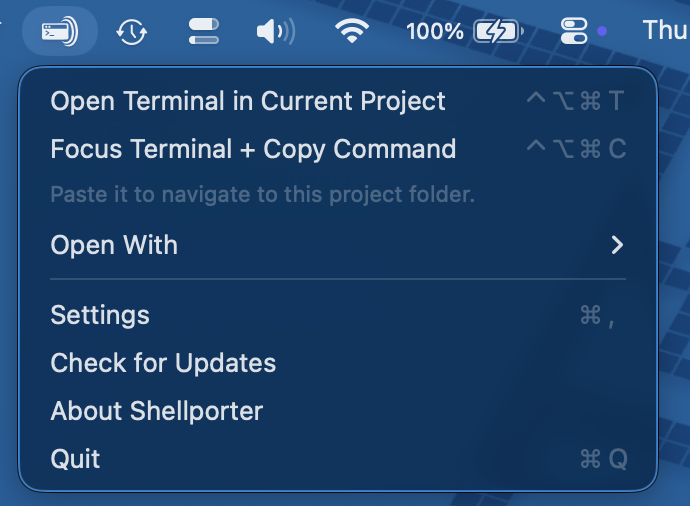
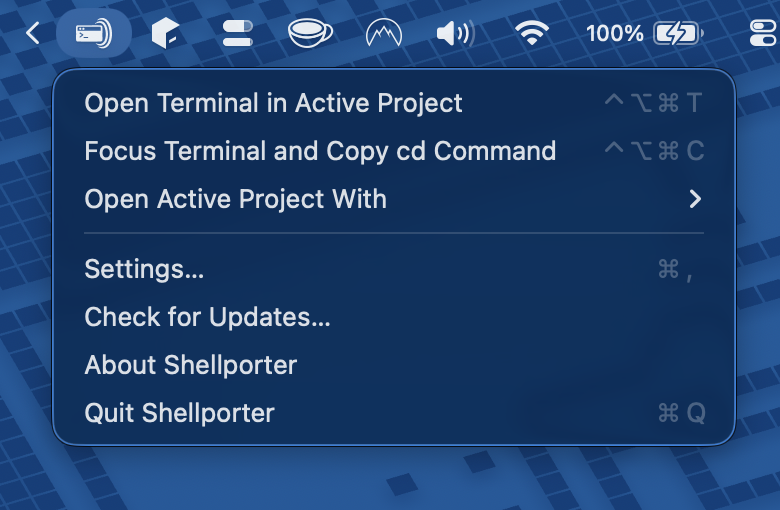
Update website menu screenshot

diff --git a/docs/index.html b/docs/index.html
@@ -460,7 +460,10 @@
     <div class="container">
       <h2 class="section-title">A glance at the menu</h2>
       <div class="screenshot-wrapper">
-        <img src="images/menu-bar.png" alt="Shellporter menu bar with active-project terminal actions, Open With menu, settings, updates, and about options" loading="lazy">
+        <picture>
+          <source srcset="images/menu-bar.webp" type="image/webp">
+          <img src="images/menu-bar.png" alt="Shellporter menu bar with active-project terminal actions, Open With menu, settings, updates, and about options" loading="lazy">
+        </picture>
       </div>
     </div>
   </section>
